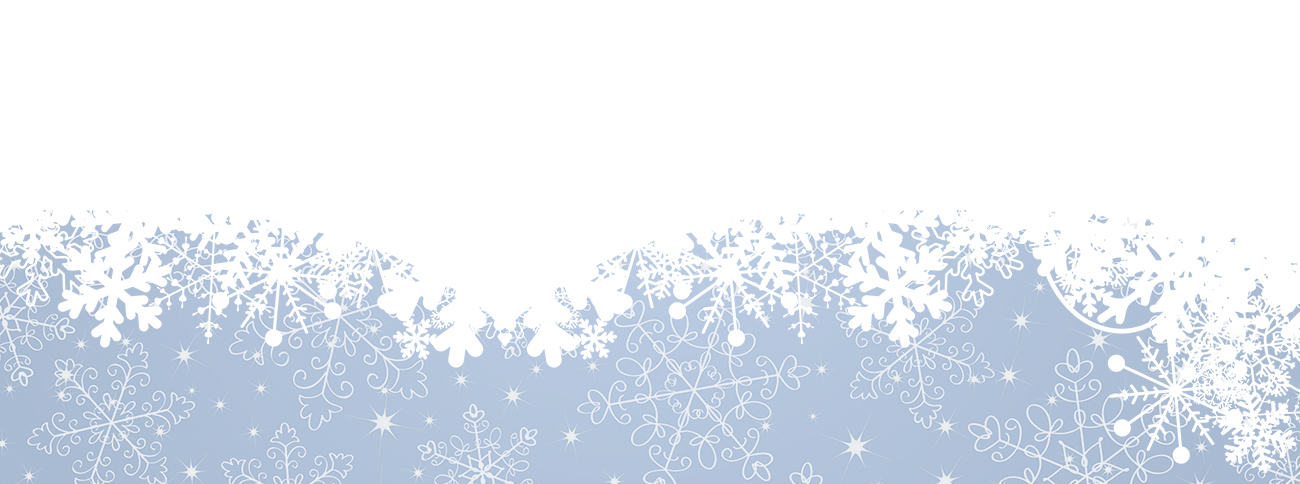
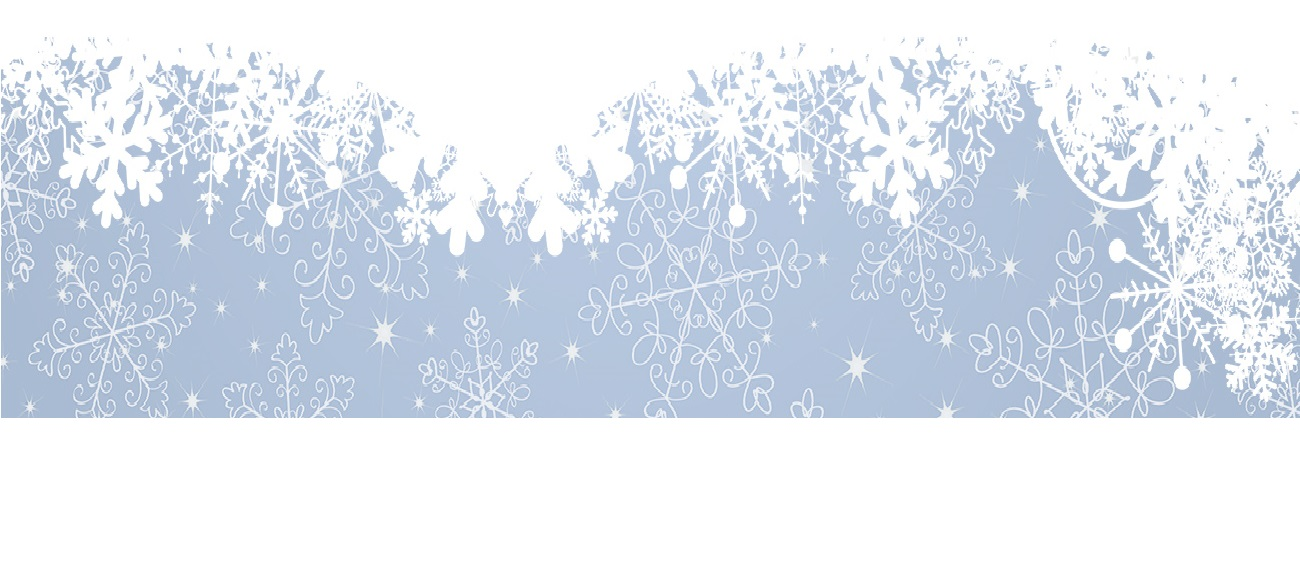
more styalizing, fixing inamge placement

diff --git a/script.js b/script.js
@@ -14,6 +14,8 @@ const popUp = document.querySelector(".pop-up");
 const resetButton = document.querySelector(".reset");
 const main = document.querySelector("main");
 let dynamicMessage = document.querySelector(".dynamic-message");
+const xButton = document.querySelector(".graph-X-button");
+const submitButton = document.querySelector(".submit-button");
 
 //selectors for pop up on graph
 const graphPopUp = document.querySelector(".graph-pop-up");
@@ -113,9 +115,9 @@ expensesForm.addEventListener("submit", (e) => {
   e.preventDefault();
 
   // display's
-  if (e.target.classList.contains("graph-X-button")) {
-    popUp.style.display = "none";
-  }
+  // if (e.target.classList.contains("graph-X-button")) {
+  //   popUp.style.display = "none";
+  // }
   main.style.display = "flex";
   popUpBox.style.display = "none";
   popUp.style.display = "none";
@@ -211,5 +213,13 @@ allTheBars.addEventListener("click", (e) => {
 graphPopUp.addEventListener("click", (e) => {
   if (e.target.classList.contains("graph-X-button")) {
     graphPopUp.style.display = "none";
+  }
+});
+
+xButton.addEventListener("click", (e) => {
+  if (e.target.classList.contains("graph-X-button")) {
+    popUp.style.display = "none";
+    main.style.display = "flex";
+    resetButton.style.display = "block";
   }
 });

diff --git a/style.css b/style.css
@@ -11,7 +11,7 @@ header {
   display: flex;
   position: fixed;
   width: 100%;
-  height: 100px;
+  height: 150px;
   justify-content: space-around;
   align-items: center;
   border-bottom: 1px solid grey;
@@ -71,7 +71,9 @@ main {
   flex-direction: column;
   justify-content: space-around;
   align-items: center;
-  background-color: #CBF1FA;
+  background-image: url(images/penguin-family-6329395549843548965168746519684.jpg);
+  background-repeat: none;
+  background-size: cover;
   border-radius: 15px;
   border: 1px solid grey
 }
@@ -137,7 +139,7 @@ main {
   height: 50%;
   width: 100px;
   border-radius: 15px;
-  background-color: #CBF1FA;
+  background-color: #6BA7CC;
   border: 1px solid grey
   
 }
@@ -181,7 +183,7 @@ footer form button {
   width: 100%;
   border-radius: 15px;
   padding: 20px;
-  background-color: #CBF1FA;
+  background-color: #6BA7CC;
   border: 2px solid grey
 }
 
@@ -288,10 +290,19 @@ label {
   padding: 20px;
   font-size: 1.5em;
   line-height: 1.5;
+  background-color: #AEDBF0;
 }
 
 .graph-pop-up::-webkit-scrollbar {
   display: none;
+}
+
+.graph-pop-up ol {
+  font-weight: bold;
+}
+
+.graph-pop-up li {
+  font-weight: lighter;
 }
 
 .graph-X-button {

diff --git a/index.html b/index.html
@@ -77,8 +77,8 @@
     </section>
 
     <section class="pop-up">
+      <button class="graph-X-button">X</button>
       <form class="form-box form-box-2">
-        <button class="graph-X-button">X</button>
         <h2 class="foodOption"></h2>
         <label for="number">How much did you spend this time..?</label>
         <input type="number" id="spentValue" />
